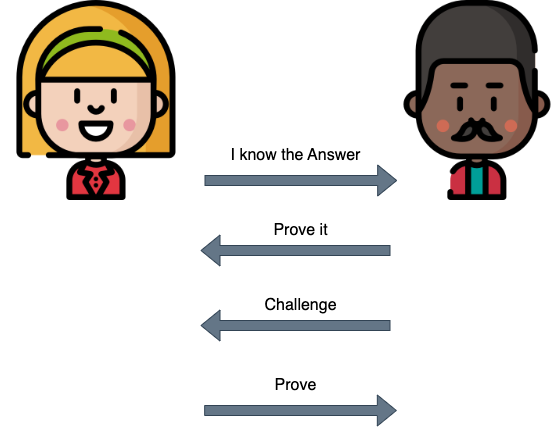
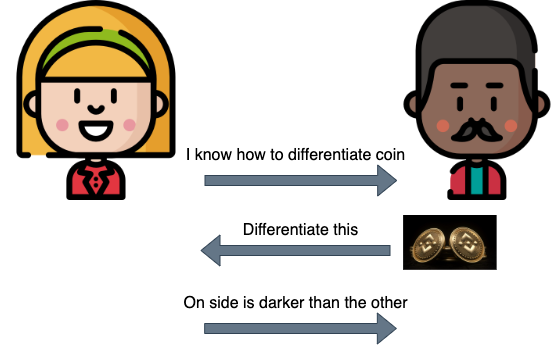
update image/change example

diff --git a/README.md b/README.md
@@ -15,9 +15,13 @@ In addition to ensuring the integrity of data, the consensus mechanism in blockc
 ## Interactive Proof vs Zero knowledge Proof
 In the exciting and ever-changing world of cryptocurrency, you might come across the abbreviation "ZK". Typically, this refers to "zero knowledge", which is often associated with something called "zero knowledge proofs". However, it's important to note that in some cases, "ZK" might actually stand for "interactive proofs". This can be confusing for those who aren't familiar with the difference between the two.
 
-To help clarify, let's use an example: imagine you're playing a game of "guess the secret number" with a friend. You choose a number between 1 and 100, and your friend has to guess what it is by asking you a series of yes-or-no questions. This is kind of like an interactive proof, where your friend is the verifier trying to prove that they know the secret number.
+To provide a concrete illustration of the concept, consider the following scenario: Imagine that you make a claim to your friend that you possess the ability to differentiate the two faces of any coin. To put your assertion to the test, your friend hands you a random coin and asks you to demonstrate your ability by describing how you differentiate the two faces. After several rounds of this exercise, your friend becomes convinced that you possess the ability to distinguish the two sides of a coin.
 
-On the other hand, zero knowledge proofs are a little different. Instead of trying to guess the secret number, imagine you're trying to prove to your friend that you know the secret number without actually telling them what it is. You might do this by performing a series of mathematical calculations that demonstrate your knowledge of the number, but without revealing the number itself. This is the basic idea behind zero knowledge proofs.
+In this example, your friend serves as the verifier, seeking to determine whether your claim of coin differentiation is genuine. You, on the other hand, act as the prover, seeking to convince your friend of your ability without revealing the details of your method. This scenario resembles an interactive proof, in which the verifier challenges the prover to demonstrate their knowledge, and the prover responds with evidence that satisfies the verifier's demands.
+
+On the other hand, zero knowledge proofs are a little different. This time you do not want to reveal how you differentiate the two faces. In this case, you and your friend both know the initial state of the coin, and you turn away while your friend decides whether to flip the coin or leave it in its current state. When you turn back, your friend asks you whether or not the coin has been flipped. If you can consistently answer correctly, your friend becomes convinced of your ability to differentiate the two faces of the coin.
+
+
 |||
 | --- | --- | 
 | <img src="image/IP.png" align="left" width="300" /> | <img src="image/ZKP.png" align="left" width="300" /> | This is the text that will appear next to the images. |
@@ -25,10 +29,17 @@ On the other hand, zero knowledge proofs are a little different. Instead of tryi
 
 So, the next time you see "ZK" in the world of cryptocurrency, remember that it might refer to either zero knowledge proofs or interactive proofs. While they're both important concepts in cryptography, they're not quite the same thing!
 
-Another commonly seen fascinating term is **SNARK** (Succinct Non-interactive Argument of Knowledge), which can be broadly understood as those zero knowledge proofs with cheap communication and computational cost for the verifier. Do you know what "zk-SNARK" means? Yes, you are right - it refers to SNARK with zero knowledge properties.
+Another commonly seen fascinating term is **SNARK** (Succinct Non-interactive Argument of Knowledge), which can be broadly understood as those zero knowledge proofs with cheap communication and computational cost for the verifier. Do you know what "zk-SNARK" means? Yes, you are right - it refers to SNARK with zero knowledge properties. For further elaboration, the zk-SNARK (Zero-Knowledge Succinct Non-Interactive Argument of Knowledge) protocol embodies the following characteristics:
+
+- Zero-Knowledge: The proof does not reveal any information about the knowledge itself.
+- Non-interactive: The proof can be conveyed in a single message from the prover to the verifier, eliminating the need for back-and-forth interaction.
+- Argument: The interaction between the prover and verifier is limited, consisting of only a few rounds and minimal communication cost.
+- Knowledge: The proof demonstrates that the prover possesses certain knowledge or information, without revealing the information itself.
+
+Together, these features make zk-SNARKs a powerful tool for verifying the authenticity and validity of claims, while preserving the privacy and security of sensitive information. 
 
 ## Interactive Proof/SNARK in Blockchain
-Smart contracts provide a trusted computing solution where they execute exactly as programmed, and the results cannot be tampered with by any party. However, this process can be slow and costly in some cases. In such situations, it may be more efficient to verify answers rather than searching for them. Interactive proof can be used in the blockchain virtual machine to achieve faster computation and reduce costs. The smart contract includes a trusted verification function for incoming advice, and untrusted machines prove the validity of the computation to the verifier on-chain.
+Smart contracts provide a trusted computing solution where they execute exactly as programmed, and the results cannot be tampered with by any party. However, this process can be slow and costly in some cases. In such situations, it may be more efficient to verify answers rather than computing/searching by themselves. Interactive proof can be used in the blockchain virtual machine to achieve faster computation and reduce costs. The smart contract includes a trusted verification function for incoming advice, and untrusted machines prove the validity of the computation to the verifier on-chain.
 ### 1. SNARK improves scalability
 Blockchain technology has been gaining a lot of attention due to its decentralized and immutable nature. However, one of the major challenges of blockchain is scalability. As more users join the network and more transactions are added, the processing time and costs increase exponentially. This can lead to a slow and expensive network, which is not practical for mass adoption.
 
